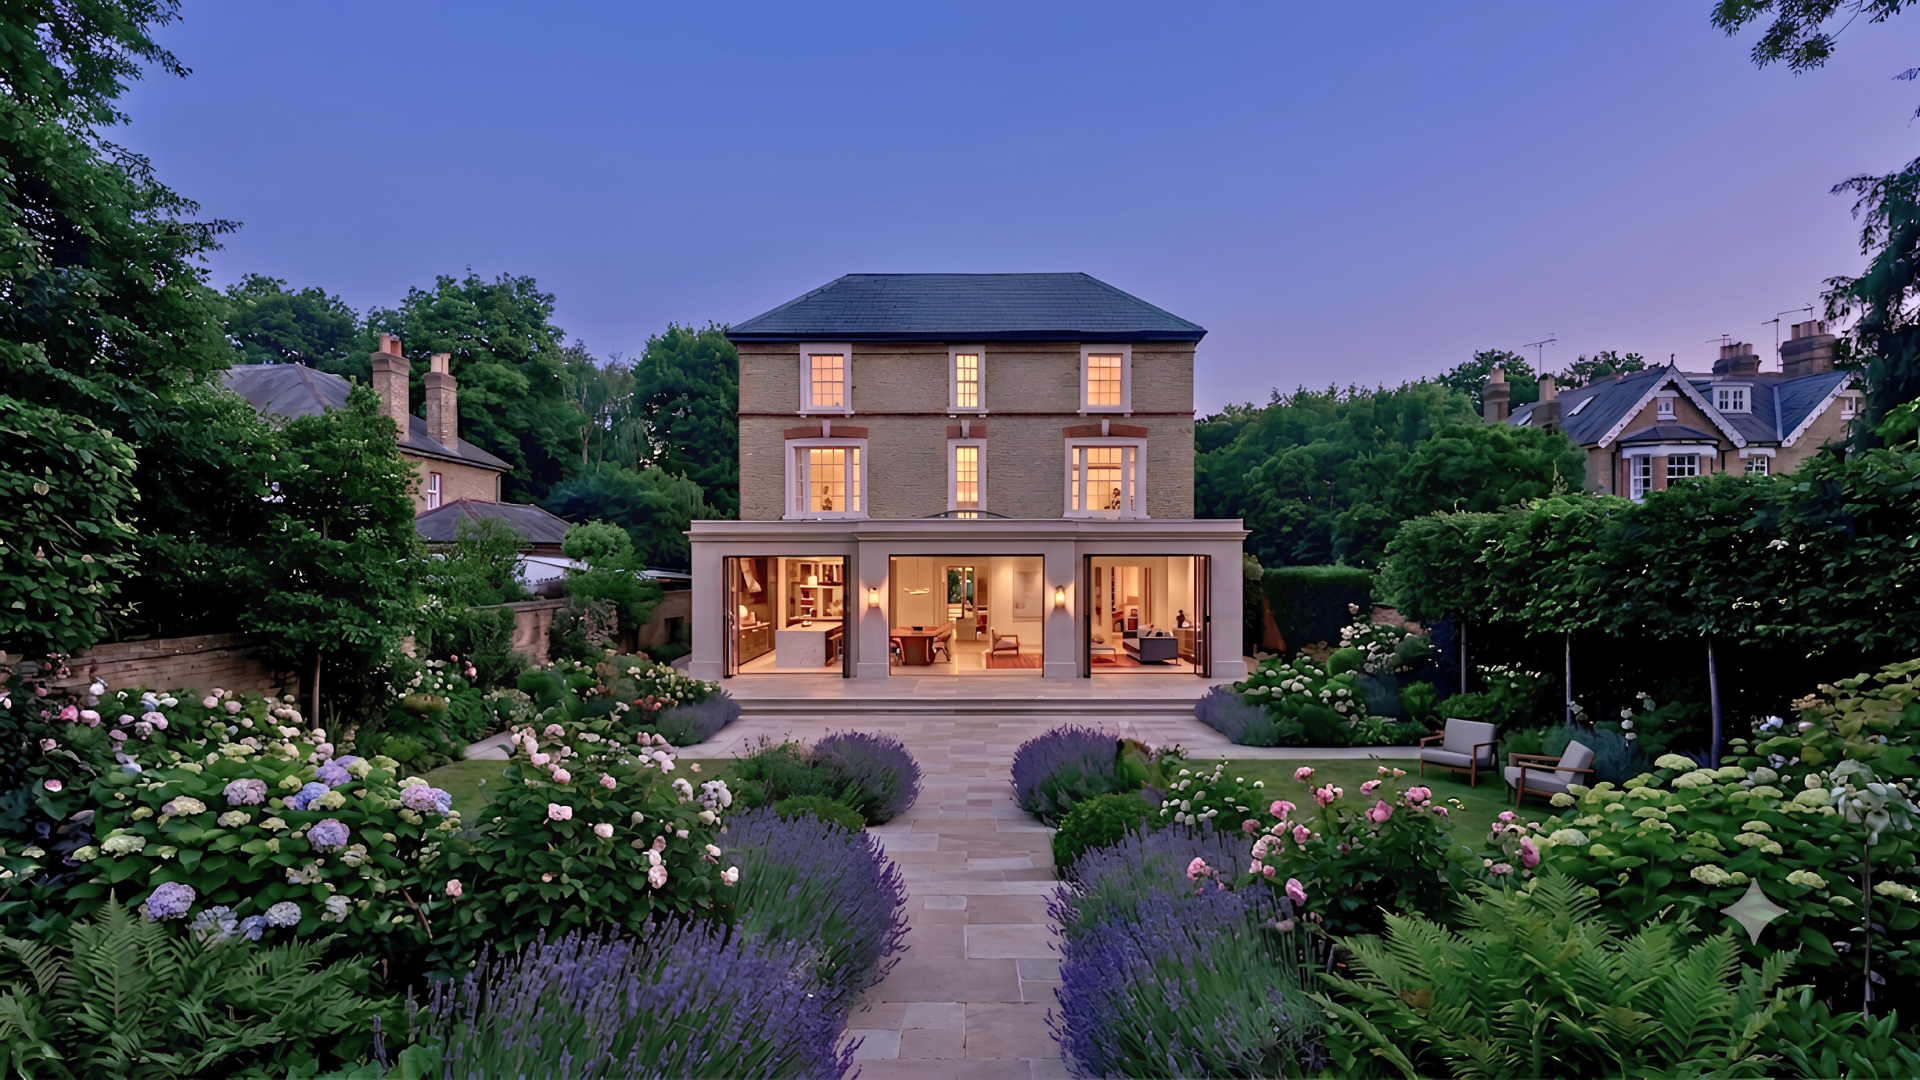
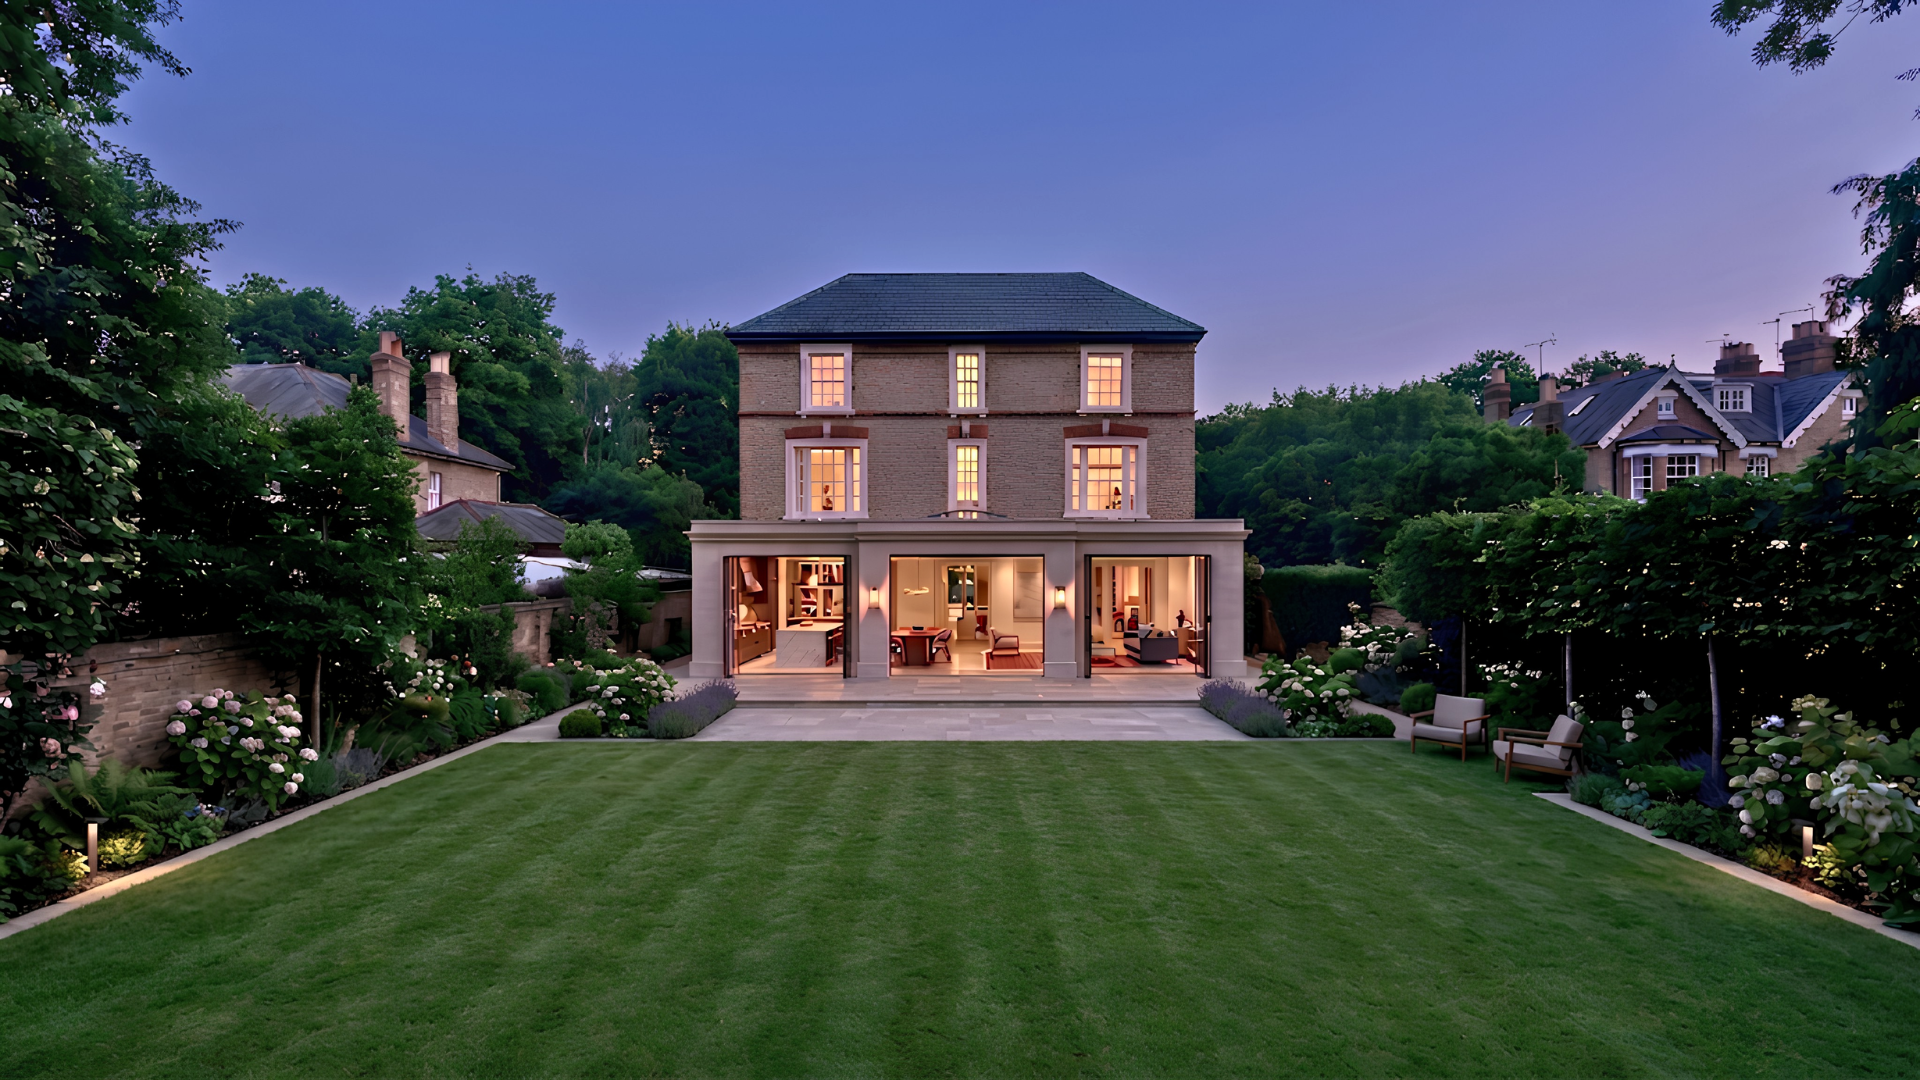
hero cache-bust desktop+mobile, desktop testimonial fixed height, update YouTube link

diff --git a/src/components/SocialProof.tsx b/src/components/SocialProof.tsx
@@ -80,7 +80,7 @@ function TestimonialCarousel({ isInView }: { isInView: boolean }) {
       {/* Horizontal content body — min-height anchors card across all 3 testimonials */}
       <div
         className="sp-carousel-body"
-        style={{ display: 'flex', minHeight: '170px', overflow: 'hidden' }}
+        style={{ display: 'flex', minHeight: '280px', overflow: 'hidden' }}
       >
         <AnimatePresence mode="wait" custom={direction}>
           <motion.div
@@ -327,7 +327,7 @@ export default function SocialProof() {
               }}
             >
               <iframe
-                src="https://www.youtube.com/embed/_TxXLSWW57Q"
+                src="https://www.youtube.com/embed/GydHGCUn2Sg"
                 title="Sovran project showcase"
                 allow="accelerometer; autoplay; clipboard-write; encrypted-media; gyroscope; picture-in-picture"
                 allowFullScreen

diff --git a/src/components/Hero.tsx b/src/components/Hero.tsx
@@ -55,7 +55,7 @@ export default function Hero() {
           style={{
             position: 'absolute',
             inset: 0,
-            backgroundImage: 'url(/media/heroepic.png?v=2)',
+            backgroundImage: 'url(/media/heroepic.png?v=3)',
             backgroundSize: 'cover',
             backgroundPosition: 'center',
             backgroundAttachment: 'fixed',

diff --git a/src/index.css b/src/index.css
@@ -69,7 +69,7 @@ img {
 
   .hero-bg {
     background-attachment: scroll !important;
-    background-image: url('/media/heroepicel.png?v=2') !important;
+    background-image: url('/media/heroepicel.png?v=3') !important;
   }
 
   /* Hero — trim ~15% of the original 100vh to remove excess grass, keep content comfortable */